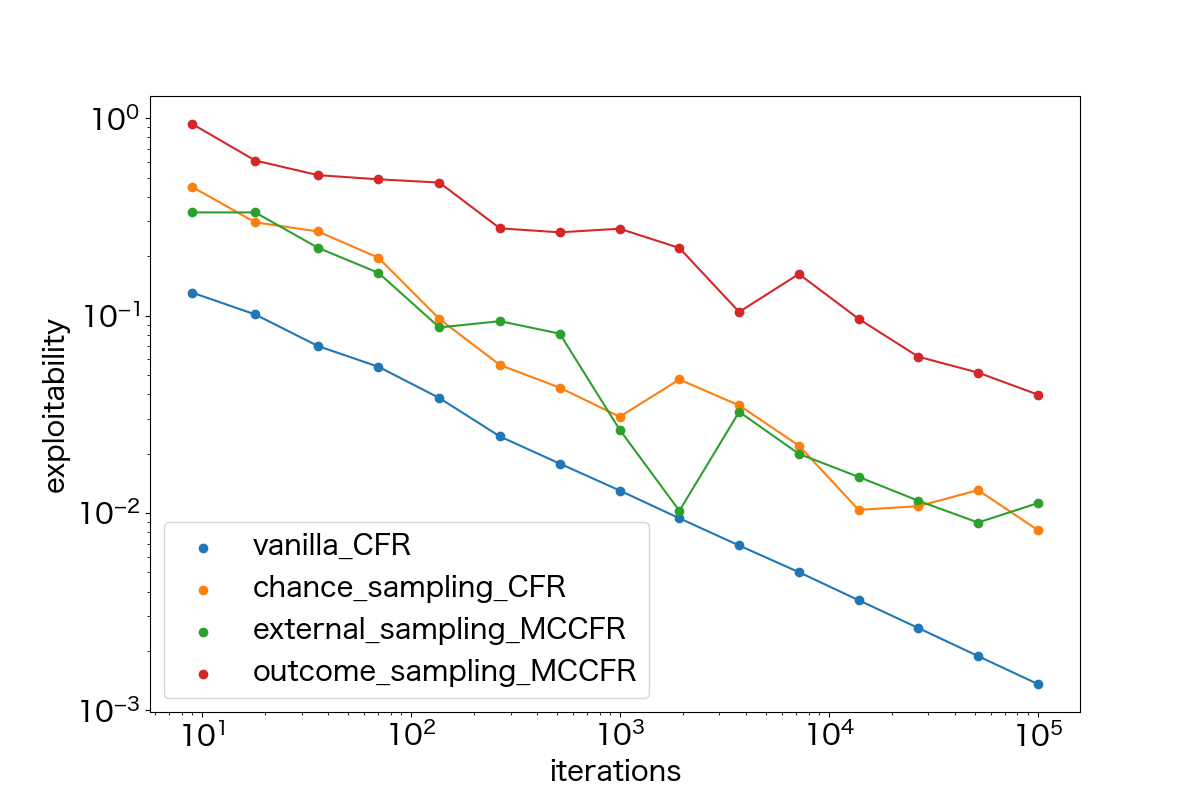
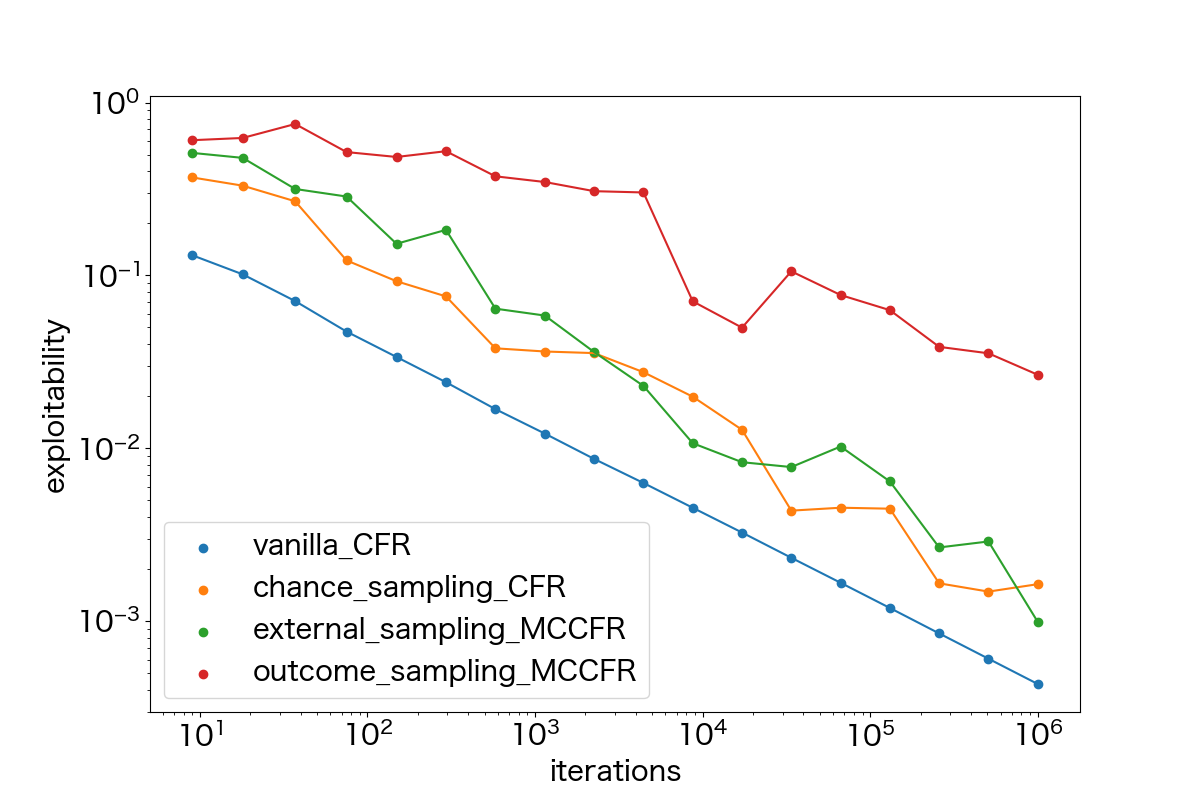
a

diff --git a/README.md b/README.md
@@ -12,7 +12,7 @@ This graph show the result of decreasing exploitability by iterations.
 
 Game is Kuhn Poker and alogrithm is vanilla CFR, chance sampling CFR, external sampling MCCFR and outcome sampling MCCFR.
 
-![a](https://user-images.githubusercontent.com/63486375/166135851-4d5f9ab6-6d65-4f92-8885-18f80cb7c415.png)
+![a](https://user-images.githubusercontent.com/63486375/166136125-5d15cd43-6eb7-4bbb-988a-fc04e6b0b2ad.png)
 
 # Features
 
